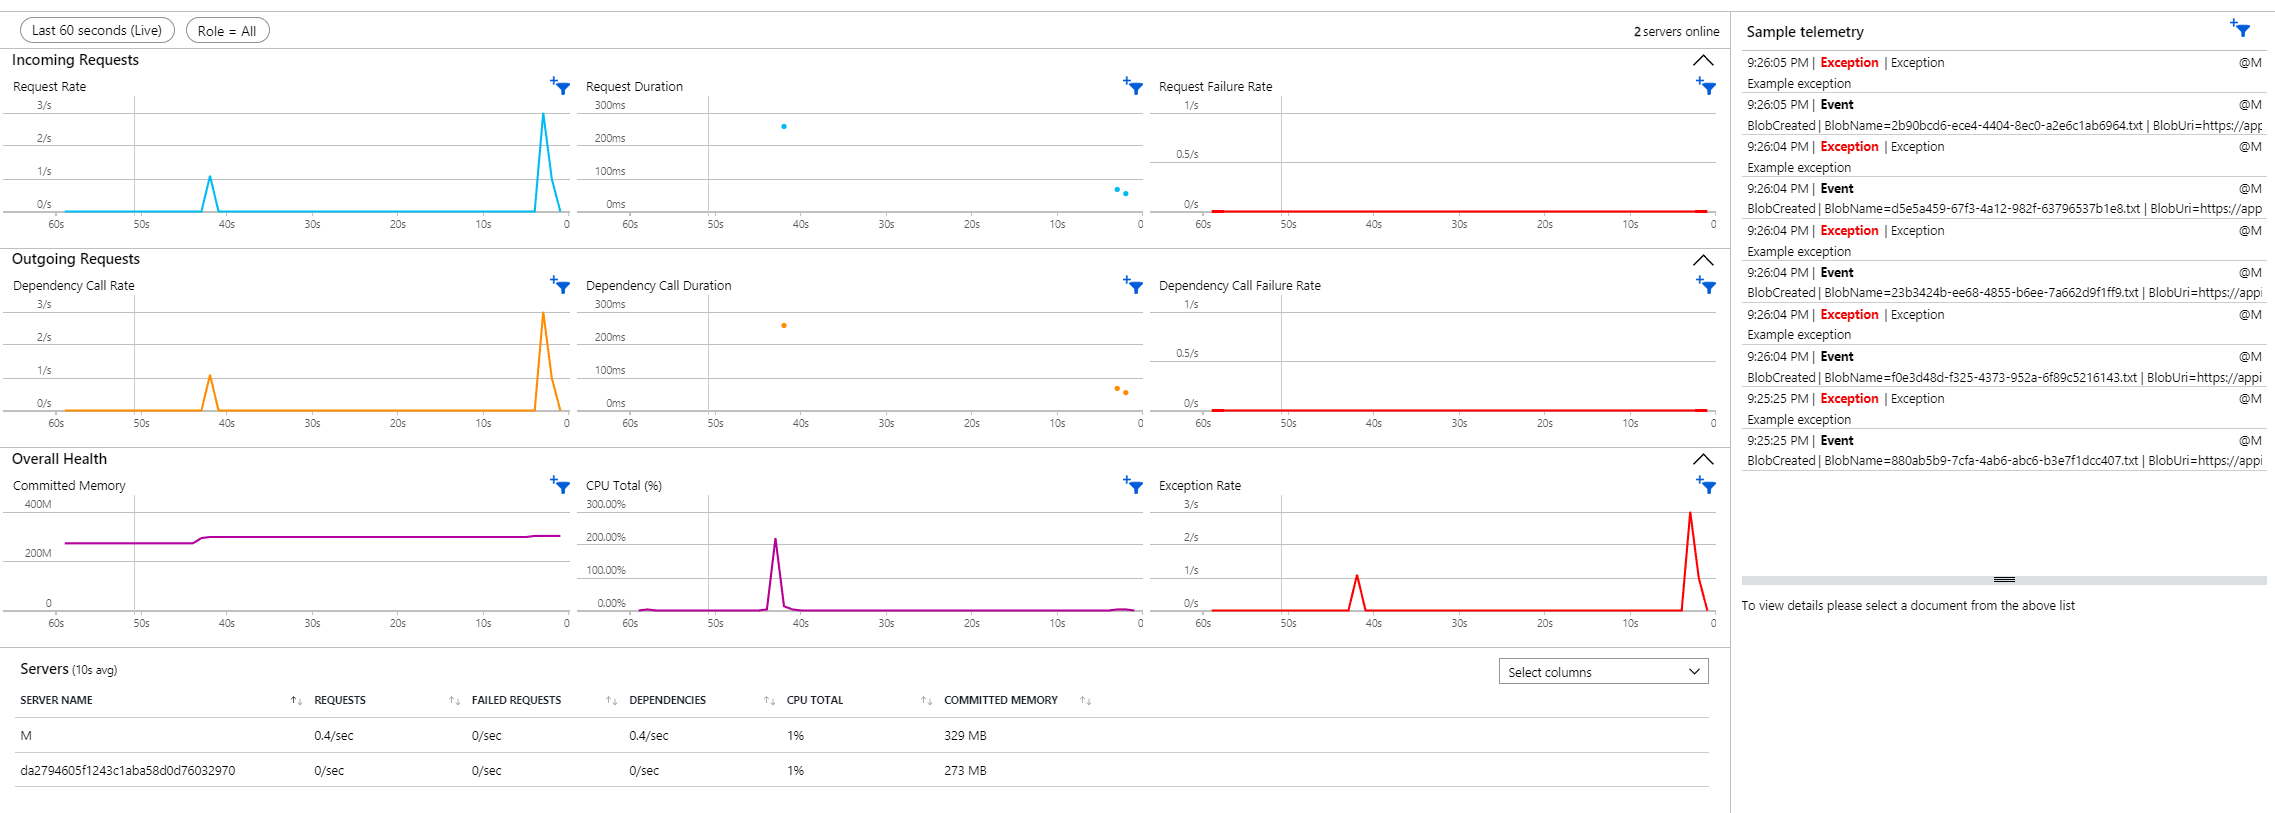
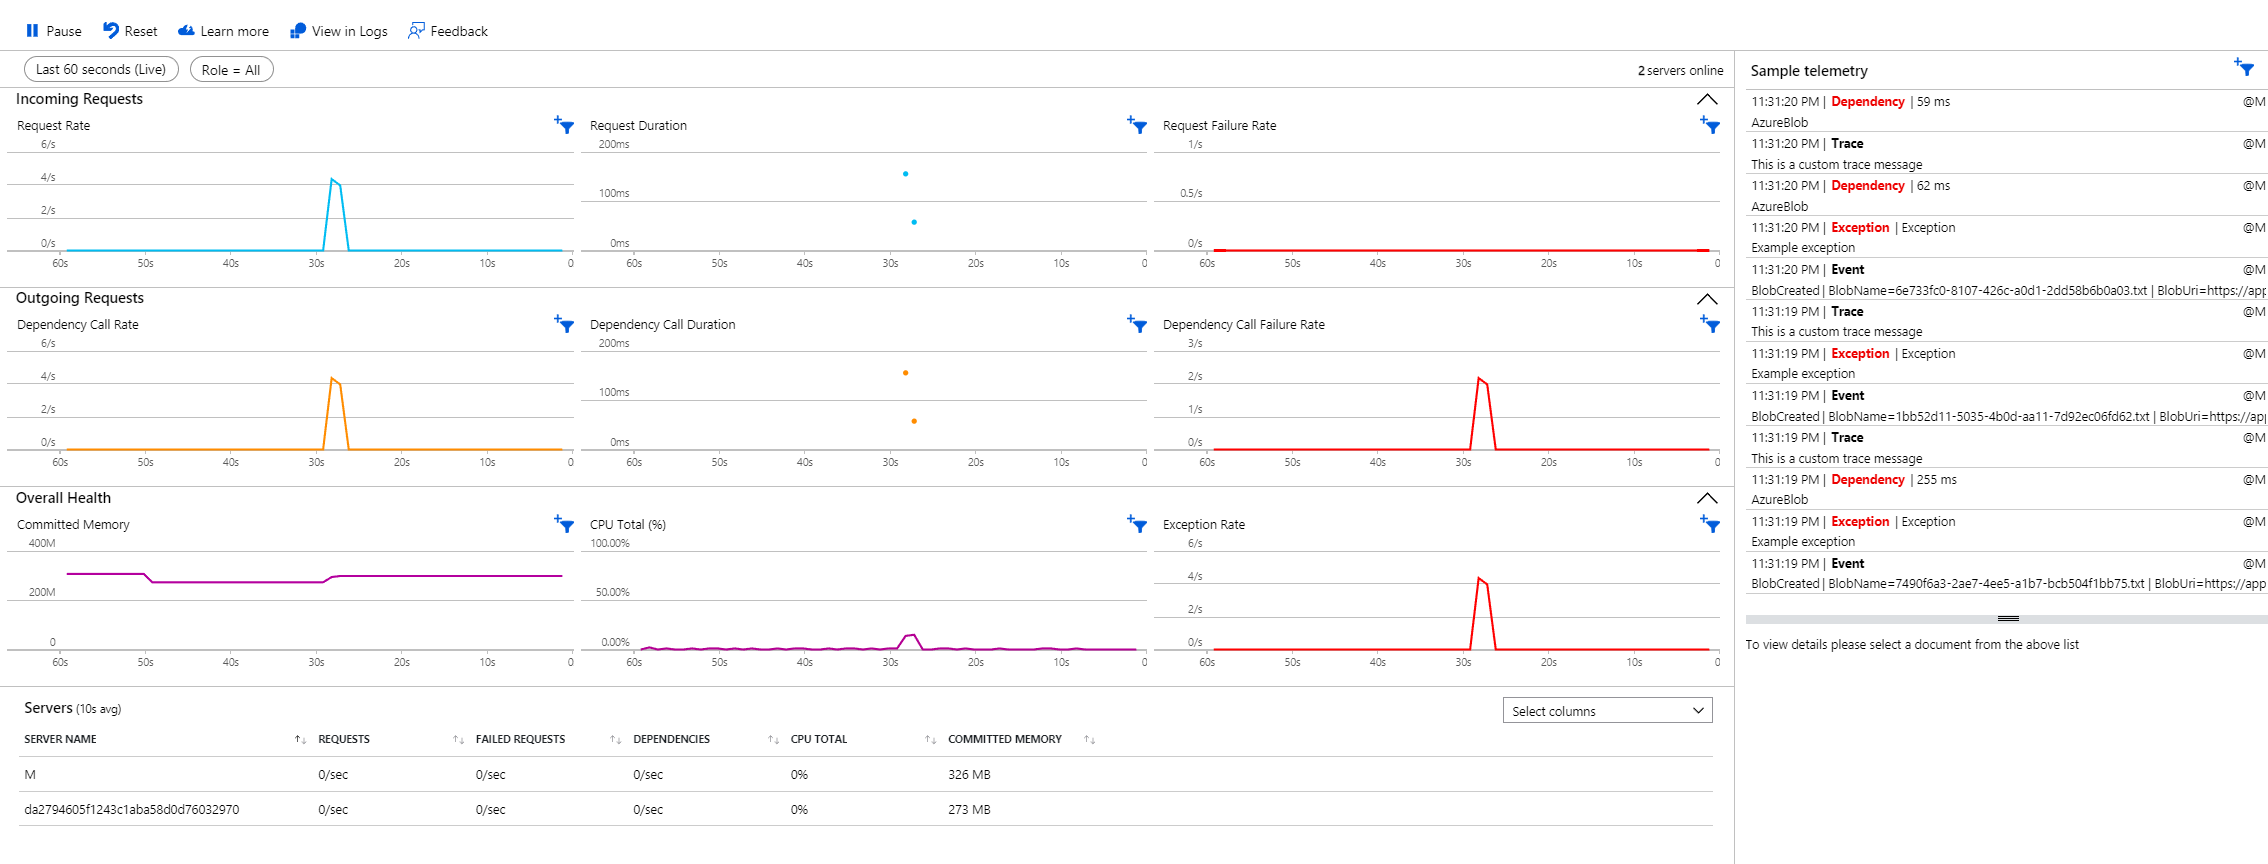
update readme

diff --git a/MyFunctionApp/MyHttpFunction.cs b/MyFunctionApp/MyHttpFunction.cs
@@ -31,7 +31,10 @@ public static class HttpTrigger1
 
         // Assign the retrieved connection string to the configuration
         configuration.ConnectionString = connectionString;
-        
+
+        // Explicitly adding telemetry initializer
+        configuration.TelemetryInitializers.Add(new DependencyTelemetryInitializer());
+
         QuickPulseTelemetryProcessor quickPulseProcessor = null;
 
         // Setup the telemetry processor chain, adding CustomTelemetryProcessor first
@@ -123,6 +126,9 @@ public static class HttpTrigger1
         var metric = new MetricTelemetry("CustomMetric", 1);
         metric.Properties.Add("Detail", "Additional Info");
         telemetryClient.TrackMetric(metric);
+
+        // track a custom trace
+        telemetryClient.TrackTrace("This is a custom trace message");
 
         // Flush the telemetry to ensure that it is sent to Application Insights
         telemetryClient.Flush();

diff --git a/MyFunctionApp/DependencyTelemetryInitializer.cs b/MyFunctionApp/DependencyTelemetryInitializer.cs
@@ -1,0 +1,22 @@
+using Microsoft.ApplicationInsights.Channel;
+using Microsoft.ApplicationInsights.DataContracts;
+using Microsoft.ApplicationInsights.Extensibility;
+using System;
+
+public class DependencyTelemetryInitializer : ITelemetryInitializer
+{
+    public void Initialize(ITelemetry telemetry)
+    {
+        if (telemetry is DependencyTelemetry dependency)
+        {
+            if (dependency.Duration.TotalMilliseconds > 55)
+            {
+                dependency.Success = false;
+            }
+            else
+            {
+                dependency.Success = true;
+            }
+        }
+    }
+}

diff --git a/MyFunctionApp/CustomTelemetryProcessor.cs b/MyFunctionApp/CustomTelemetryProcessor.cs
@@ -15,14 +15,15 @@ public class CustomTelemetryProcessor : ITelemetryProcessor
 
     public void Process(ITelemetry item)
     {
-        // Check if the telemetry item is an exception
-        if (item is ExceptionTelemetry)
+        // Check if the telemetry item is an trace telemetry item
+        if (item is TraceTelemetry trace)
         {
             // If it is, return early without calling the next processor
-            // return;
+            return;
         }
         
         // Otherwise, pass the telemetry item to the next processor in the chain
         Next.Process(item);
     }
 }
+

diff --git a/MyFunctionApp/Startup.cs b/MyFunctionApp/Startup.cs
@@ -11,6 +11,9 @@ namespace MyFunctionApp
         public override void Configure(IFunctionsHostBuilder builder)
         {
             builder.Services.AddApplicationInsightsTelemetryProcessor<CustomTelemetryProcessor>();
+        
+            builder.Services.AddSingleton<ITelemetryInitializer, DependencyTelemetryInitializer>();
+            
         }
     }
 }

diff --git a/README.md b/README.md
@@ -530,6 +530,43 @@ var telemetry = new RequestTelemetry
 telemetryClient.TrackRequest(telemetry);
 ```
 
+Add the following telemetry for covering other streams:
+
+```csharp
+// An example exception to Application Insights
+try
+{
+    throw new Exception("Example exception");
+}
+catch (Exception ex)
+{
+    telemetryClient.TrackException(ex);
+}
+
+// Send dependency telemetry to Application Insights
+var dependencyTelemetry = new DependencyTelemetry
+{
+    Name = "AzureBlob",
+    Target = "AzureBlob",
+    Data = "AzureBlob",
+    Timestamp = startTime,
+    Duration = timer.Elapsed,
+    Success = true
+};
+telemetryClient.TrackDependency(dependencyTelemetry);
+
+// Send a custom metric to Application Insights
+var metric = new MetricTelemetry("CustomMetric", 1);
+metric.Properties.Add("Detail", "Additional Info");
+telemetryClient.TrackMetric(metric);
+
+// track a custom trace
+telemetryClient.TrackTrace("This is a custom trace message");
+
+// Flush the telemetry to ensure that it is sent to Application Insights
+telemetryClient.Flush();
+```
+
 ## Output
 
 The code snippet provided integrates several components from Microsoft's Application Insights SDK to enable live metric monitoring and manual request tracking for an application. Initially, it sets up a `QuickPulseTelemetryProcessor`, which is crucial for collecting real-time performance data. This processor is added to the telemetry processing chain of the Application Insights configuration, ensuring that performance metrics are continuously analyzed. The `QuickPulseTelemetryModule` is then initialized and configured to register the newly created telemetry processor, enabling the feature known as Live Metrics Stream in Application Insights. This stream provides immediate feedback on the performance of the application.
@@ -570,7 +607,7 @@ namespace MyFunctionApp
 
 #### Create `CustomTelemetryProcessor.cs`:
 
-This file defines the `CustomTelemetryProcessor` class, which implements the ITelemetryProcessor interface. It is designed to intercept and process all telemetry data before it is sent to Application Insights. Our custom processor specifically checks if the telemetry item is an exception and, if so, stops further processing to prevent it from being logged.
+This file defines the `CustomTelemetryProcessor` class, which implements the ITelemetryProcessor interface. It is designed to intercept and process all telemetry data before it is sent to Application Insights. Our custom processor specifically checks if the telemetry item is an trace and, if so, stops further processing to prevent it from being logged.
 
 ```csharp
 using Microsoft.ApplicationInsights.Channel;
@@ -591,7 +628,7 @@ public class CustomTelemetryProcessor : ITelemetryProcessor
     public void Process(ITelemetry item)
     {
         // Check if the telemetry item is an exception
-        if (item is ExceptionTelemetry)
+        if (item is Trace)
         {
             // If it is, return early without calling the next processor
             return;
@@ -639,9 +676,63 @@ static HttpTrigger1()
 }
 ```
 
-This configuration guarantees that our Azure Functions application transmits telemetry data tailored to our specific operational and monitoring requirements. For instance, exceptions no longer appear in the live metrics or transaction searches. The follwoing captures before and after implementing the Custom Telemetry Processor.
+This configuration guarantees that our Azure Functions application transmits telemetry data tailored to our specific operational and monitoring requirements. For instance, traces no longer appear in the live metrics or transaction searches. The follwoing captures before and after implementing the Custom Telemetry Processor.
 
 <div align="center">
   <img src="images/Step_8_TelemetryProcessor_p_0.png" width="1200" alt="">
   <img src="images/Step_8_TelemetryProcessor_p_1.png" width="1200" alt="">
+</div>
+
+
+### Step 9: Setup Custom Telemetry Initializer
+
+A Telemetry Initializer in the context of Application Insights is a component that enriches telemetry data before it's sent to the Application Insights service. It allows you to add, remove, or modify properties of telemetry data. This can be useful for adding custom logic to filter, correlate, or enhance telemetry data based on your specific requirements.
+
+1. Create a new file and name it `DependencyTelemetryInitializer.cs`.
+
+2. Add the Following Code:
+   This code snippet defines a custom telemetry initializer that modifies the `Success` property of dependency telemetry based on the call duration. If the call duration exceeds 55 milliseconds, `Success` is set to `false`, indicating a failed dependency call; otherwise, it is set to `true`.
+
+   ```csharp
+   using Microsoft.ApplicationInsights.Channel;
+   using Microsoft.ApplicationInsights.DataContracts;
+   using Microsoft.ApplicationInsights.Extensibility;
+   using System;
+
+   public class DependencyTelemetryInitializer : ITelemetryInitializer
+   {
+       public void Initialize(ITelemetry telemetry)
+       {
+           if (telemetry is DependencyTelemetry dependency)
+           {
+               if (dependency.Duration.TotalMilliseconds > 55)
+               {
+                   dependency.Success = false;
+               }
+               else
+               {
+                   dependency.Success = true;
+               }
+           }
+       }
+   }
+   ```
+
+3. Update Startup.cs:
+Add the custom telemetry initializer to your service collection to ensure it's active. Insert the following line in your Startup.cs file within the configuration setup:
+
+    ```csharp
+    builder.Services.AddSingleton<ITelemetryInitializer, DependencyTelemetryInitializer>();
+    ```
+
+4. Add to Configuration in MyHttpFunction.cs:
+Explicitly add the telemetry initializer in your HTTP function configuration. This step is crucial for functions or areas where you need explicit control over telemetry:
+    ```csharp
+    configuration.TelemetryInitializers.Add(new DependencyTelemetryInitializer());
+    ```
+## Output
+This setup ensures that all dependency telemetry collected through your application will now include custom logic to mark dependencies as failed based on the duration of the call, providing more granular control over monitoring and alerting behaviors. As can be seen, dependency calls lasting over 55 ms are categorized as `Success = false`, while those below are marked true.
+
+<div align="center">
+  <img src="images/Step_9_TelemetryInitializer.png" width="1200" alt="">
 </div>
